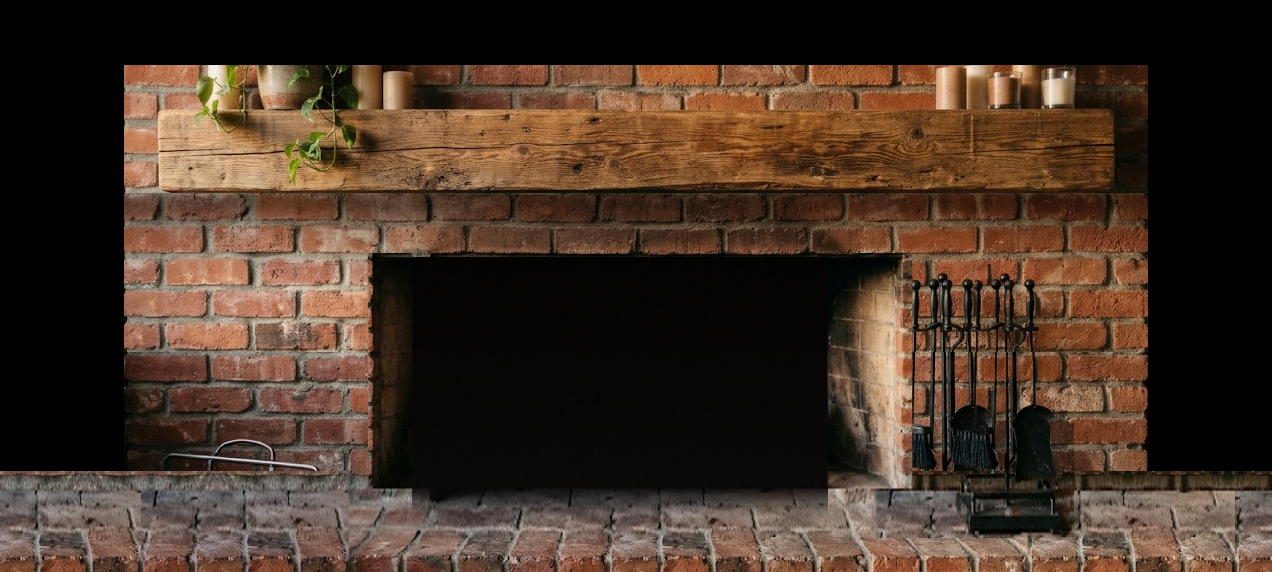
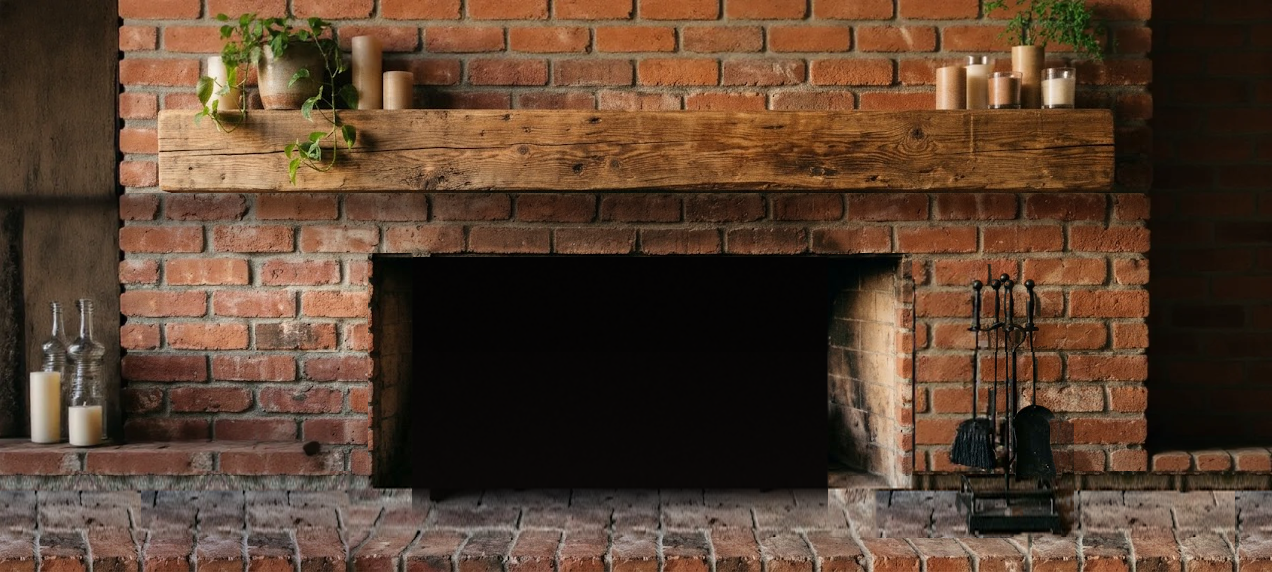
Fireplace: repaint the hearth (the cat's walkway) on top of the chosen fill
Claude-Session: https://claude.ai/code/session_01CJJLq1kNYut9GAz9vTNtym

diff --git a/tools/art/fill_scene.py b/tools/art/fill_scene.py
@@ -14,9 +14,7 @@ os.makedirs(OUT, exist_ok=True)
 img = cv2.imread(src)
 mask = (cv2.imread(maskp, 0) > 127).astype(np.uint8)
 H, W = mask.shape
-PROMPT = ("Photograph of a rustic red brick fireplace wall with a thick reclaimed wood mantel beam. Weathered red bricks in running bond "
-          "with gray mortar fill the whole wall. On the mantel stand pillar candles, glass jar candles and a ceramic pot with a leafy trailing "
-          "pothos plant. Plain brick wall with nothing else on it. Warm, moody interior light, shallow depth, highly detailed.")
+PROMPT = open(os.path.join(os.path.dirname(os.path.abspath(src)), 'prompt.txt')).read().strip()
 TW = 716
 tiles = [(0, TW), (W - TW, W)]
 client = Client('black-forest-labs/FLUX.1-Fill-dev', verbose=False)
